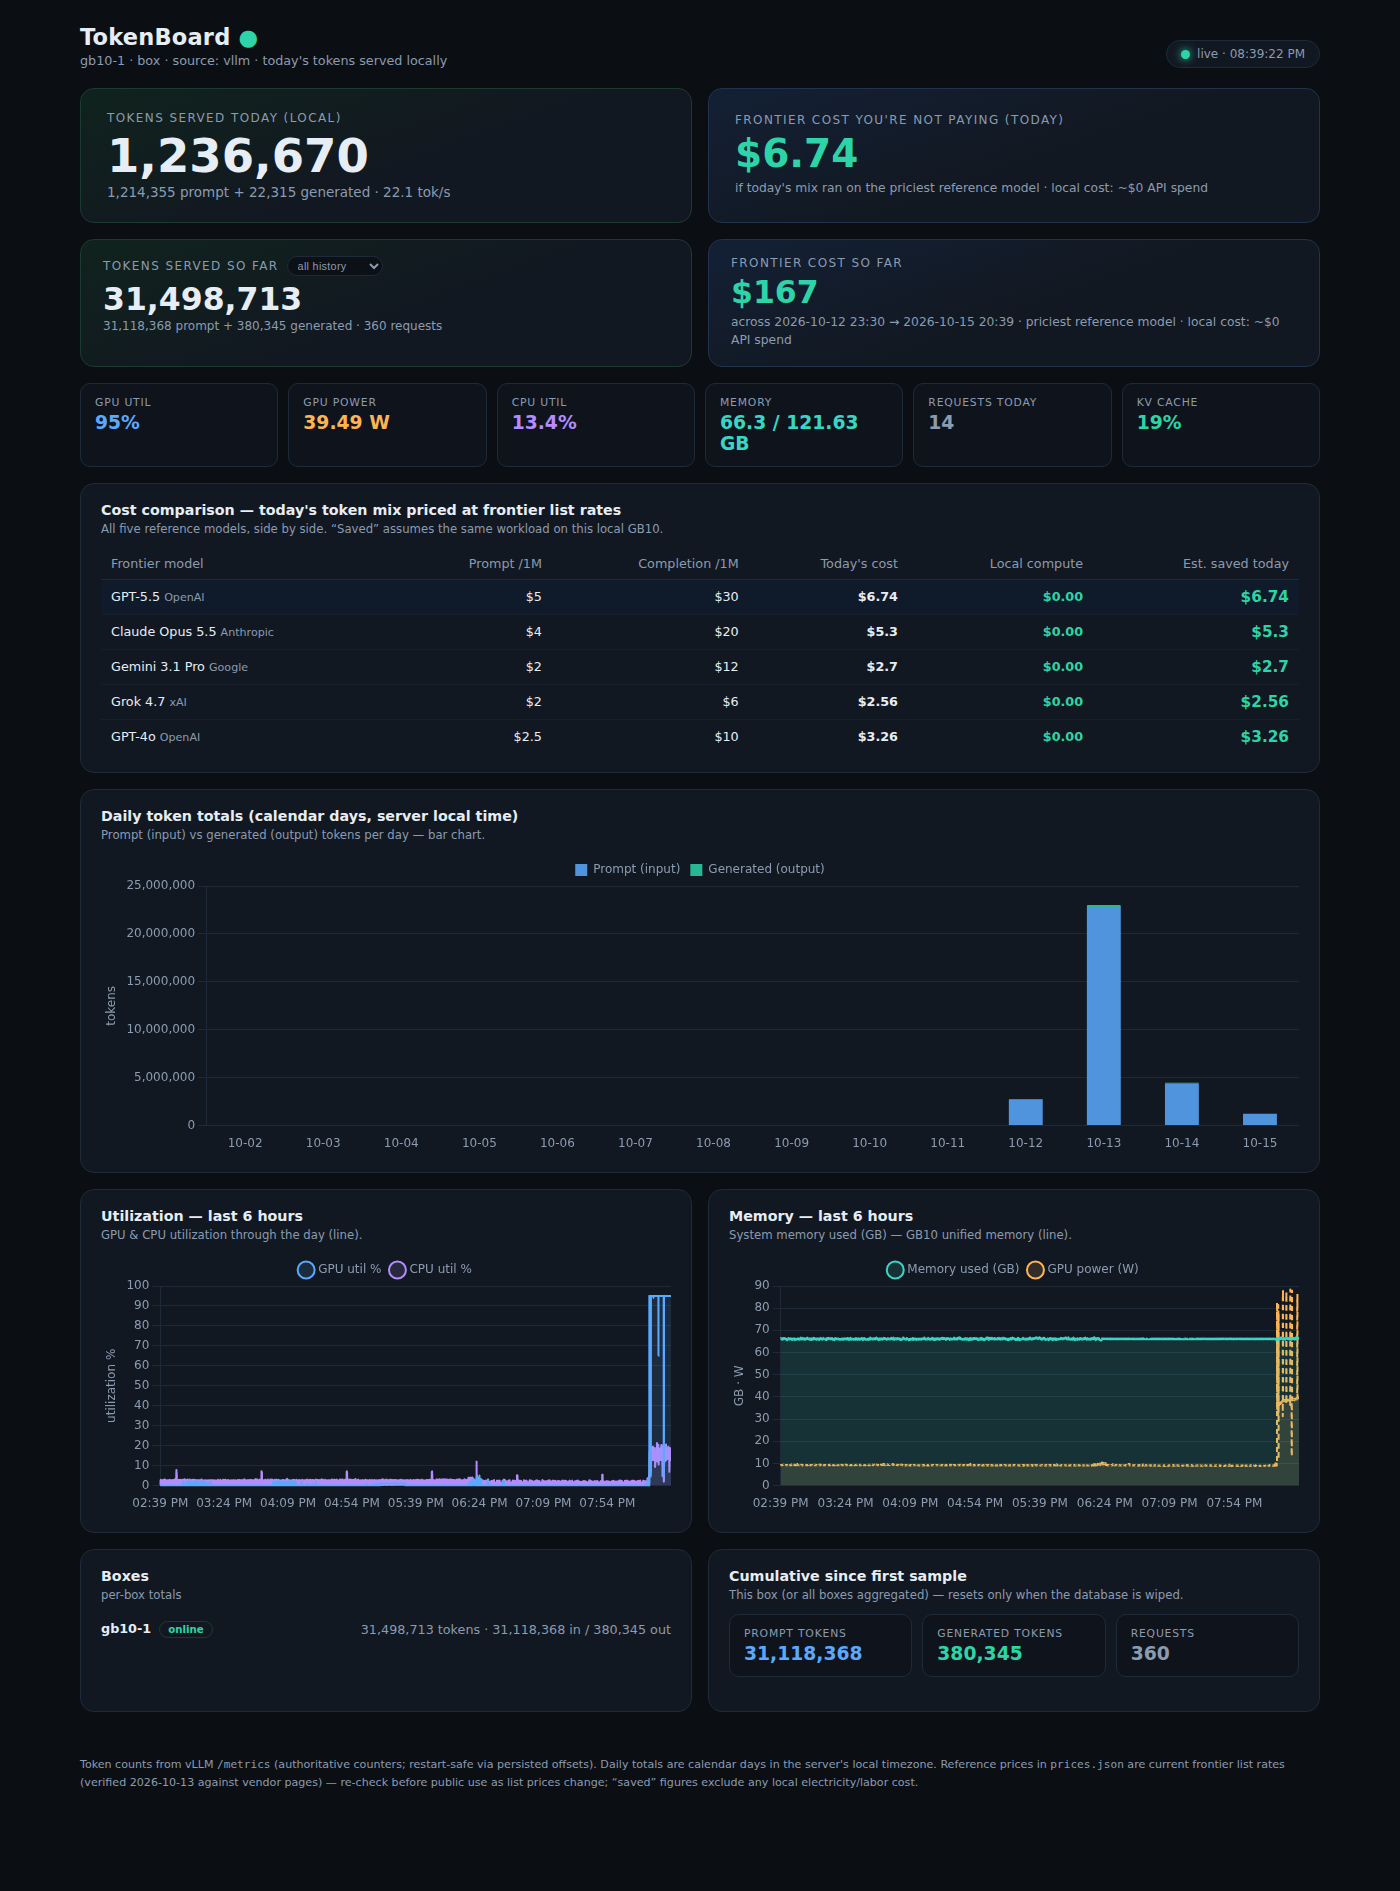
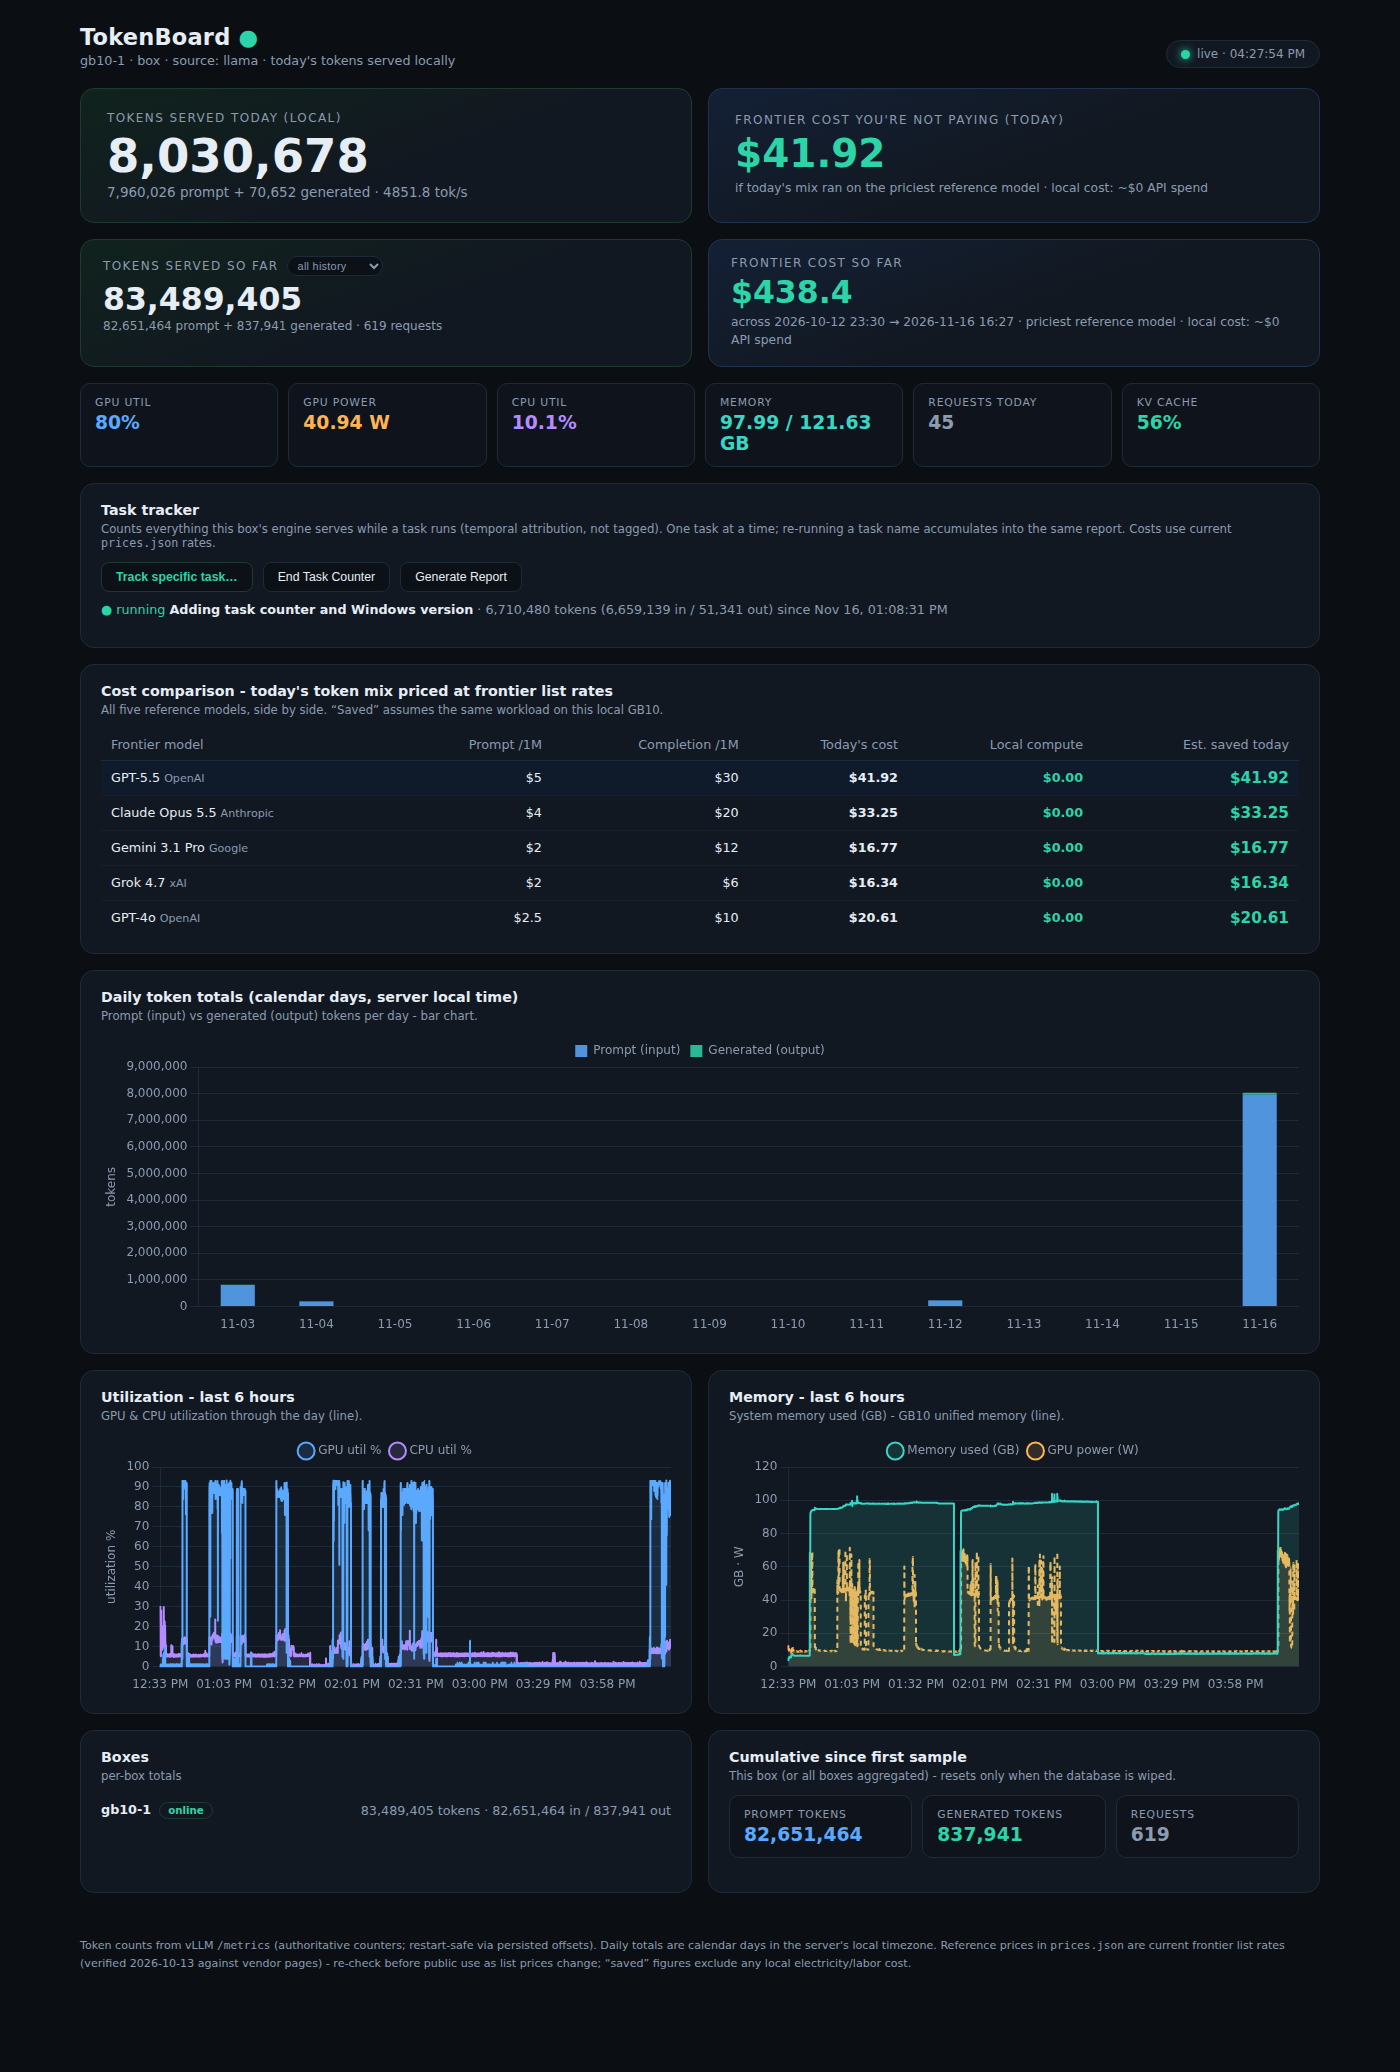
docs: Windows + task tracker across README, OPERATIONS.md, refreshed dashboard screenshot

diff --git a/README.md b/README.md
@@ -1,9 +1,10 @@
 # TokenBoard
 
 **Local inference, quantified.** TokenBoard runs on the box serving your local
-model (GB10, DGX Spark, or any Linux box with vLLM), counts every token the
-model serves, and shows live what that activity would have cost on frontier
-APIs - so at the end of a tradeshow day you can say:
+model (GB10, DGX Spark, any Linux box with vLLM/llama.cpp, or a Windows
+workstation), counts every token the model serves, and shows live what that
+activity would have cost on frontier APIs - so at the end of a tradeshow day
+you can say:
 
 > *"We served 23M tokens today, locally, on this box. The same workload on
 > the frontier API would have cost $X."*
@@ -14,16 +15,23 @@ One clone, one command, one browser tab:
 
 ```bash
 git clone https://github.com/treymorton/tokenboard tokenboard && cd tokenboard
-./install.sh
+./install.sh                        # Linux
+# open http://localhost:8100
+```
+
+```powershell
+git clone https://github.com/treymorton/tokenboard tokenboard ; cd tokenboard
+powershell -ExecutionPolicy Bypass -File .\install.ps1   # Windows (see "Windows")
 # open http://localhost:8100
 ```
 
 ## Requirements
 
-- **Linux** (aarch64 or x86_64; built and tested on NVIDIA GB10)
-- **Python 3.10+** - that's it. TokenBoard is stdlib-only; `install.sh`
-  installs nothing and needs no root. Chart.js is vendored, so the dashboard
-  works fully offline.
+- **Linux** (aarch64 or x86_64; built and tested on NVIDIA GB10) **or
+  Windows 10/11** (see the [Windows](#windows) section for backend support)
+- **Python 3.10+** - that's it. TokenBoard is stdlib-only; `install.sh` /
+  `install.ps1` install nothing and need no root/admin. Chart.js is vendored,
+  so the dashboard works fully offline.
 - **A local inference server: vLLM or llama.cpp** (llama-server) - the
   prerequisite. TokenBoard reads the server's cumulative Prometheus
   counters, which are exact: what the API would bill. vLLM is preferred
@@ -44,9 +52,15 @@ git clone https://github.com/treymorton/tokenboard tokenboard && cd tokenboard
 - **Daily bar chart:** prompt vs generated tokens per calendar day
   (server local time - set the box's timezone to the venue's before a show)
 - **Line charts:** GPU/CPU utilization and memory/power, last 6 h
+- **Task tracker:** name a task (e.g. one demo), watch its live token count,
+  end it, and generate an accumulated report - tokens plus frontier-model
+  cost - without digging the usage out of daily totals
 - **Boxes panel:** per-box online status + cumulative totals (hub mode)
 
 ## How install.sh works
+
+(`install.ps1` on Windows does the same, plus the Task Scheduler logon task -
+see the [Windows](#windows) section.)
 
 1. checks Python ≥ 3.10
 2. probes `127.0.0.1:8000` / `:8001` for a vLLM `/metrics` endpoint

diff --git a/docs/OPERATIONS.md b/docs/OPERATIONS.md
@@ -123,6 +123,56 @@ so both tiles are derived from `/slots`:
   = +40 `id_task` increments (8 per request with MTP spec-decode enabled).
   Edge counting is the honest signal.
 
+## Windows workstations
+
+TokenBoard runs box-role on Windows 10/11 (no hub on Windows - Task Scheduler
+replaces systemd-user; capability matrix in README "Windows").
+
+```powershell
+# install + autostart (logon task) + start now
+powershell -ExecutionPolicy Bypass -File .\install.ps1
+# ops
+Get-ScheduledTask -TaskName "TokenBoard Box" | Get-ScheduledTaskInfo
+Start-ScheduledTask -TaskName "TokenBoard Box"
+Stop-ScheduledTask -TaskName "TokenBoard Box"; Stop-Process -Name pythonw
+Unregister-ScheduledTask -TaskName "TokenBoard Box" -Confirm:$false
+# logs: pythonw writes nowhere visible - run in a console to see output:
+python tokenboard.py
+```
+
+- **Diagnostics:** `python scripts\win_probe.py 2>&1 | Tee-Object probe_console.txt`
+  reports what the box exposes (CPU/mem APIs, nvidia-smi, ports, backend
+  classification). Read-only; give the report to whoever supports TokenBoard.
+- **Discovery:** llama-server.exe is auto-found when the process image name
+  contains "llama" (word-boundary - `ollama.exe` deliberately does NOT
+  match). Anything else: pin `llama_url` in config.json. The server must run
+  with `--metrics` for token counting; without it, `/metrics` answers 501
+  with exactly that advice.
+- **Store-Python** (WindowsApps path) works, but check `python --version` -
+  the "python" stub that opens the Microsoft Store means Python isn't
+  actually installed; use a python.org install for a tradeshow box.
+- **Firewall:** install.ps1 binds loopback (`bind_host`) so there's no
+  prompt; `0.0.0.0` (LAN/hub visibility) triggers a one-time allow prompt.
+- Windows boxes push to a Linux hub via `hub_url` like any box; task tracker
+  data stays per-box (hub has no task rollup).
+
+## Task tracker operations
+
+State lives in the `tasks` table (one row per run; `end_ts NULL` = active).
+Endpoints: `POST /api/task/{start,end}`, `GET /api/task/{current,report}`.
+Reports are computed at request time (token deltas from stored snapshots;
+costs from current prices.json) - no background job, nothing to repair after
+a restart: an active task simply keeps accumulating.
+
+```sql
+-- end a stuck task without the dashboard (or clear history):
+UPDATE tasks SET end_ts=<now_epoch>, end_prompt=<cum_p>, end_gen=<cum_g>
+  WHERE end_ts IS NULL;
+```
+
+Attribution is temporal - while a task runs, ALL engine traffic counts
+(demo boxes: close other sessions first). One active task per box by design.
+
 ## Tradeshow checklist
 
 - [ ] Box timezone set to the venue's local zone (daily bars follow it)
